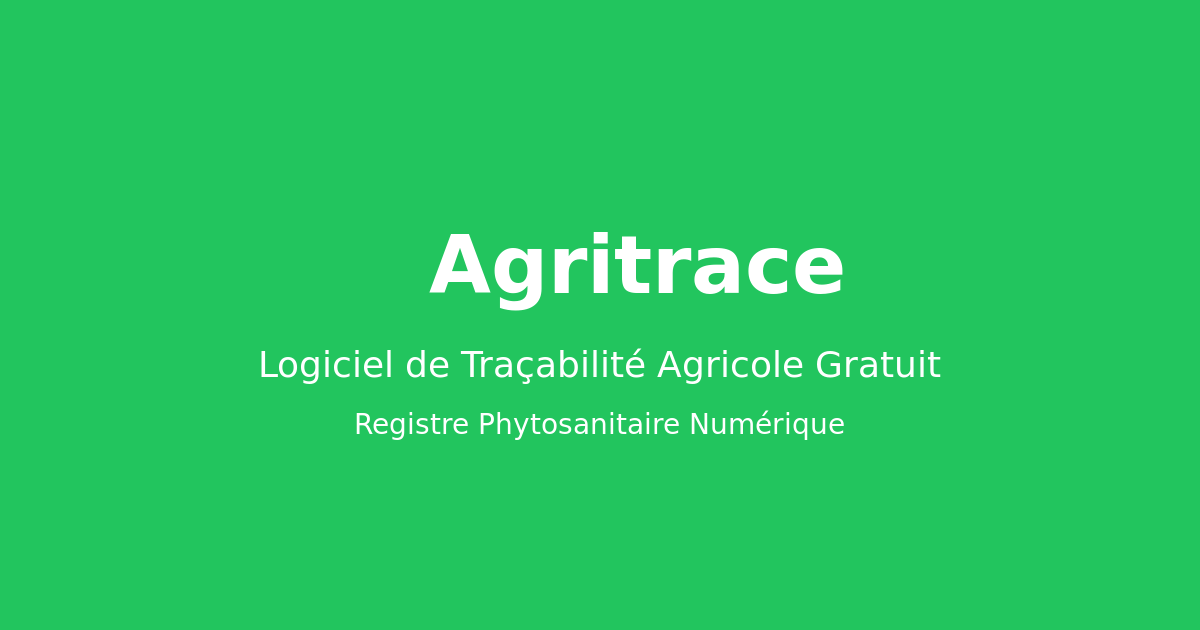
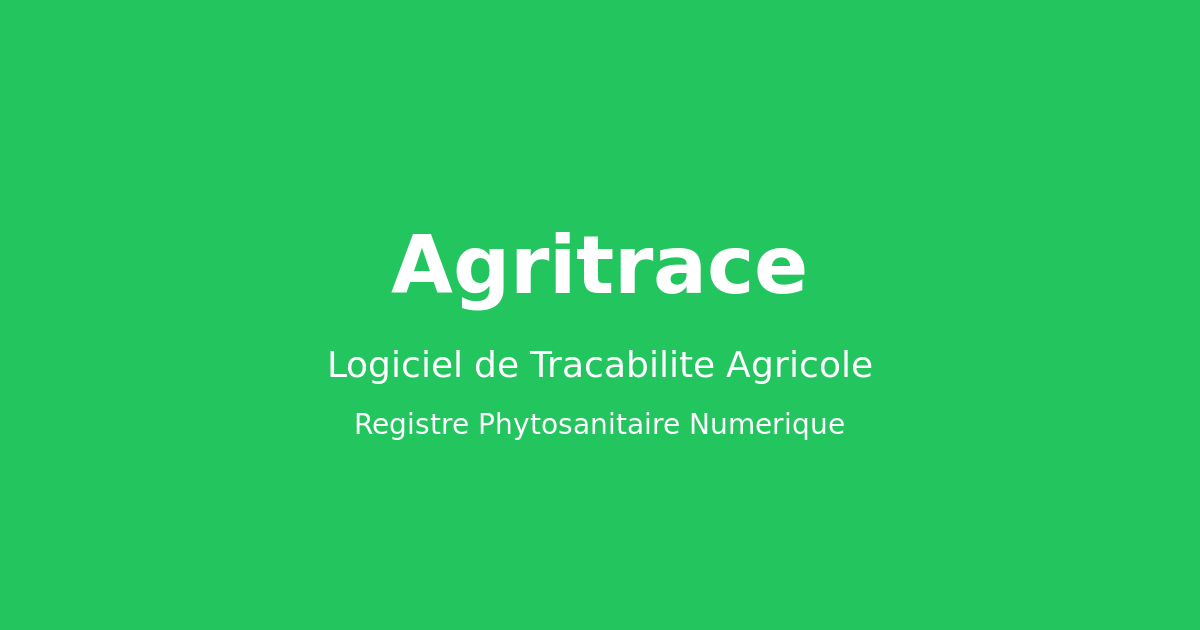
fix: Remove "gratuit" mentions - Agritrace is a paid service
- Update Hero H1 and meta tags
- Update registre-phytosanitaire page
- Update og-image
- Replace with "Essai 30 jours"

Changed region(s): [[0.3083, 0.3619, 0.7092, 0.5127], [0.2158, 0.5429, 0.8017, 0.6032]]

diff --git a/src/app/registre-phytosanitaire-numerique/page.tsx b/src/app/registre-phytosanitaire-numerique/page.tsx
@@ -19,7 +19,7 @@ export default function RegistrePhytosanitaireNumerique() {
             onClick={() => setShowSignupModal(true)}
             className="bg-agri-green hover:bg-agri-green-dark text-white px-5 py-2 rounded-full font-medium transition-colors"
           >
-            Essai gratuit
+            Essai 30 jours
           </button>
         </div>
       </header>
@@ -32,7 +32,7 @@ export default function RegistrePhytosanitaireNumerique() {
               Obligatoire dès 2027
             </div>
             <h1 className="text-4xl md:text-5xl lg:text-6xl font-bold text-gray-900 mb-6">
-              Registre Phytosanitaire <span className="text-agri-green">Numérique</span> Gratuit
+              Registre Phytosanitaire <span className="text-agri-green">Numérique</span> Automatique
             </h1>
             <p className="text-xl text-gray-600 mb-8 max-w-3xl mx-auto">
               Tenez votre registre phytosanitaire sans effort. Chaque traitement enregistré dans Agritrace
@@ -43,7 +43,7 @@ export default function RegistrePhytosanitaireNumerique() {
                 onClick={() => setShowSignupModal(true)}
                 className="bg-agri-green hover:bg-agri-green-dark text-white px-8 py-4 rounded-full font-semibold text-lg transition-all hover:shadow-xl"
               >
-                Créer mon registre gratuitement
+                Essayer 30 jours
               </button>
               <a
                 href="#fonctionnement"
@@ -149,9 +149,9 @@ export default function RegistrePhytosanitaireNumerique() {
           <div className="grid md:grid-cols-2 lg:grid-cols-4 gap-6">
             {[
               {
-                icon: '🆓',
-                title: 'Gratuit',
-                description: 'Commencez gratuitement, sans carte bancaire requise.',
+                icon: '🎯',
+                title: 'Essai 30 jours',
+                description: 'Testez toutes les fonctionnalités pendant 30 jours.',
               },
               {
                 icon: '⚡',
@@ -207,13 +207,13 @@ export default function RegistrePhytosanitaireNumerique() {
           </h2>
           <p className="text-xl text-white/90 mb-8">
             Rejoignez les agriculteurs qui ont simplifié leur traçabilité avec Agritrace.
-            Gratuit pour démarrer, sans engagement.
+            Essai 30 jours, sans engagement.
           </p>
           <button
             onClick={() => setShowSignupModal(true)}
             className="bg-white text-agri-green hover:bg-gray-100 px-8 py-4 rounded-full font-semibold text-lg transition-all hover:shadow-xl"
           >
-            Créer mon compte gratuitement
+            Commencer l'essai
           </button>
         </div>
       </section>
@@ -241,7 +241,7 @@ export default function RegistrePhytosanitaireNumerique() {
           <div className="bg-white rounded-2xl p-8 max-w-md w-full">
             <h3 className="text-2xl font-bold text-gray-900 mb-4">Créer votre compte</h3>
             <p className="text-gray-600 mb-6">
-              Vous allez être redirigé vers l'application Agritrace pour créer votre compte gratuitement.
+              Vous allez être redirigé vers l'application Agritrace pour créer votre compte et profiter de 30 jours d'essai.
             </p>
             <div className="flex gap-4">
               <button

diff --git a/src/app/layout.tsx b/src/app/layout.tsx
@@ -2,13 +2,13 @@ import type { Metadata } from 'next'
 import './globals.css'
 
 export const metadata: Metadata = {
-  title: 'Agritrace - Registre Phytosanitaire Numerique Gratuit | Tracabilite Agricole',
-  description: 'Registre phytosanitaire numerique automatique et gratuit. Conforme reglementation 2027. Gerez vos parcelles, cultures et traitements phyto. Export PDF/CSV.',
-  keywords: 'registre phytosanitaire numerique, registre phyto, tracabilite agricole, logiciel agricole gratuit, gestion parcelles, traitement phytosanitaire, reglementation 2027, PAC, E-Phy',
+  title: 'Agritrace - Registre Phytosanitaire Numerique | Tracabilite Agricole',
+  description: 'Registre phytosanitaire numerique automatique. Conforme reglementation 2027. Gerez vos parcelles, cultures et traitements phyto. Export PDF/CSV. Essai 30 jours.',
+  keywords: 'registre phytosanitaire numerique, registre phyto, tracabilite agricole, logiciel agricole, gestion parcelles, traitement phytosanitaire, reglementation 2027, PAC, E-Phy',
   metadataBase: new URL('https://www.agritrace.fr'),
   openGraph: {
-    title: 'Agritrace - Registre Phytosanitaire Numerique Gratuit',
-    description: 'Registre phyto automatique conforme 2027. Vos traitements sont traces automatiquement. Gratuit pour les agriculteurs.',
+    title: 'Agritrace - Registre Phytosanitaire Numerique',
+    description: 'Registre phyto automatique conforme 2027. Vos traitements sont traces automatiquement. Essai 30 jours.',
     url: 'https://www.agritrace.fr',
     siteName: 'Agritrace',
     images: [
@@ -16,7 +16,7 @@ export const metadata: Metadata = {
         url: '/og-image.png',
         width: 1200,
         height: 630,
-        alt: 'Agritrace - Logiciel de Traçabilité Agricole Gratuit',
+        alt: 'Agritrace - Logiciel de Traçabilité Agricole',
       },
     ],
     locale: 'fr_FR',
@@ -24,8 +24,8 @@ export const metadata: Metadata = {
   },
   twitter: {
     card: 'summary_large_image',
-    title: 'Agritrace - Registre Phytosanitaire Numerique Gratuit',
-    description: 'Registre phyto automatique conforme 2027. Traitements traces automatiquement. Gratuit.',
+    title: 'Agritrace - Registre Phytosanitaire Numerique',
+    description: 'Registre phyto automatique conforme 2027. Traitements traces automatiquement. Essai 30 jours.',
     images: ['/og-image.png'],
   },
 }

diff --git a/src/app/registre-phytosanitaire-numerique/layout.tsx b/src/app/registre-phytosanitaire-numerique/layout.tsx
@@ -1,12 +1,12 @@
 import { Metadata } from 'next'
 
 export const metadata: Metadata = {
-  title: 'Registre Phytosanitaire Numérique Gratuit | Agritrace',
-  description: 'Registre phytosanitaire numérique automatique et gratuit. Chaque traitement enregistré est automatiquement tracé. Conforme réglementation 2027. Export PDF/CSV.',
-  keywords: 'registre phytosanitaire numérique, registre phyto gratuit, cahier enregistrement traitements, réglementation phytosanitaire 2027, traçabilité phytosanitaire, logiciel agricole',
+  title: 'Registre Phytosanitaire Numérique Automatique | Agritrace',
+  description: 'Registre phytosanitaire numérique automatique. Chaque traitement enregistré est automatiquement tracé. Conforme réglementation 2027. Export PDF/CSV. Essai 30 jours.',
+  keywords: 'registre phytosanitaire numérique, registre phyto, cahier enregistrement traitements, réglementation phytosanitaire 2027, traçabilité phytosanitaire, logiciel agricole',
   openGraph: {
-    title: 'Registre Phytosanitaire Numérique Gratuit | Agritrace',
-    description: 'Tenez votre registre phytosanitaire sans effort. Automatique, gratuit et conforme 2027.',
+    title: 'Registre Phytosanitaire Numérique Automatique | Agritrace',
+    description: 'Tenez votre registre phytosanitaire sans effort. Automatique et conforme 2027. Essai 30 jours.',
     url: 'https://www.agritrace.fr/registre-phytosanitaire-numerique',
     siteName: 'Agritrace',
     locale: 'fr_FR',

diff --git a/src/components/Hero.tsx b/src/components/Hero.tsx
@@ -14,7 +14,7 @@ export default function Hero({ onGetStarted }: HeroProps) {
             </div>
 
             <h1 className="text-4xl md:text-5xl lg:text-6xl font-bold text-gray-900 mb-6 animate-fade-in-up delay-100">
-              Logiciel de <span className="text-agri-green">Traçabilité Agricole</span> Gratuit
+              Logiciel de <span className="text-agri-green">Traçabilité Agricole</span>
             </h1>
 
             <h2 className="text-xl md:text-2xl font-semibold text-gray-700 mb-4 animate-fade-in-up delay-150">
